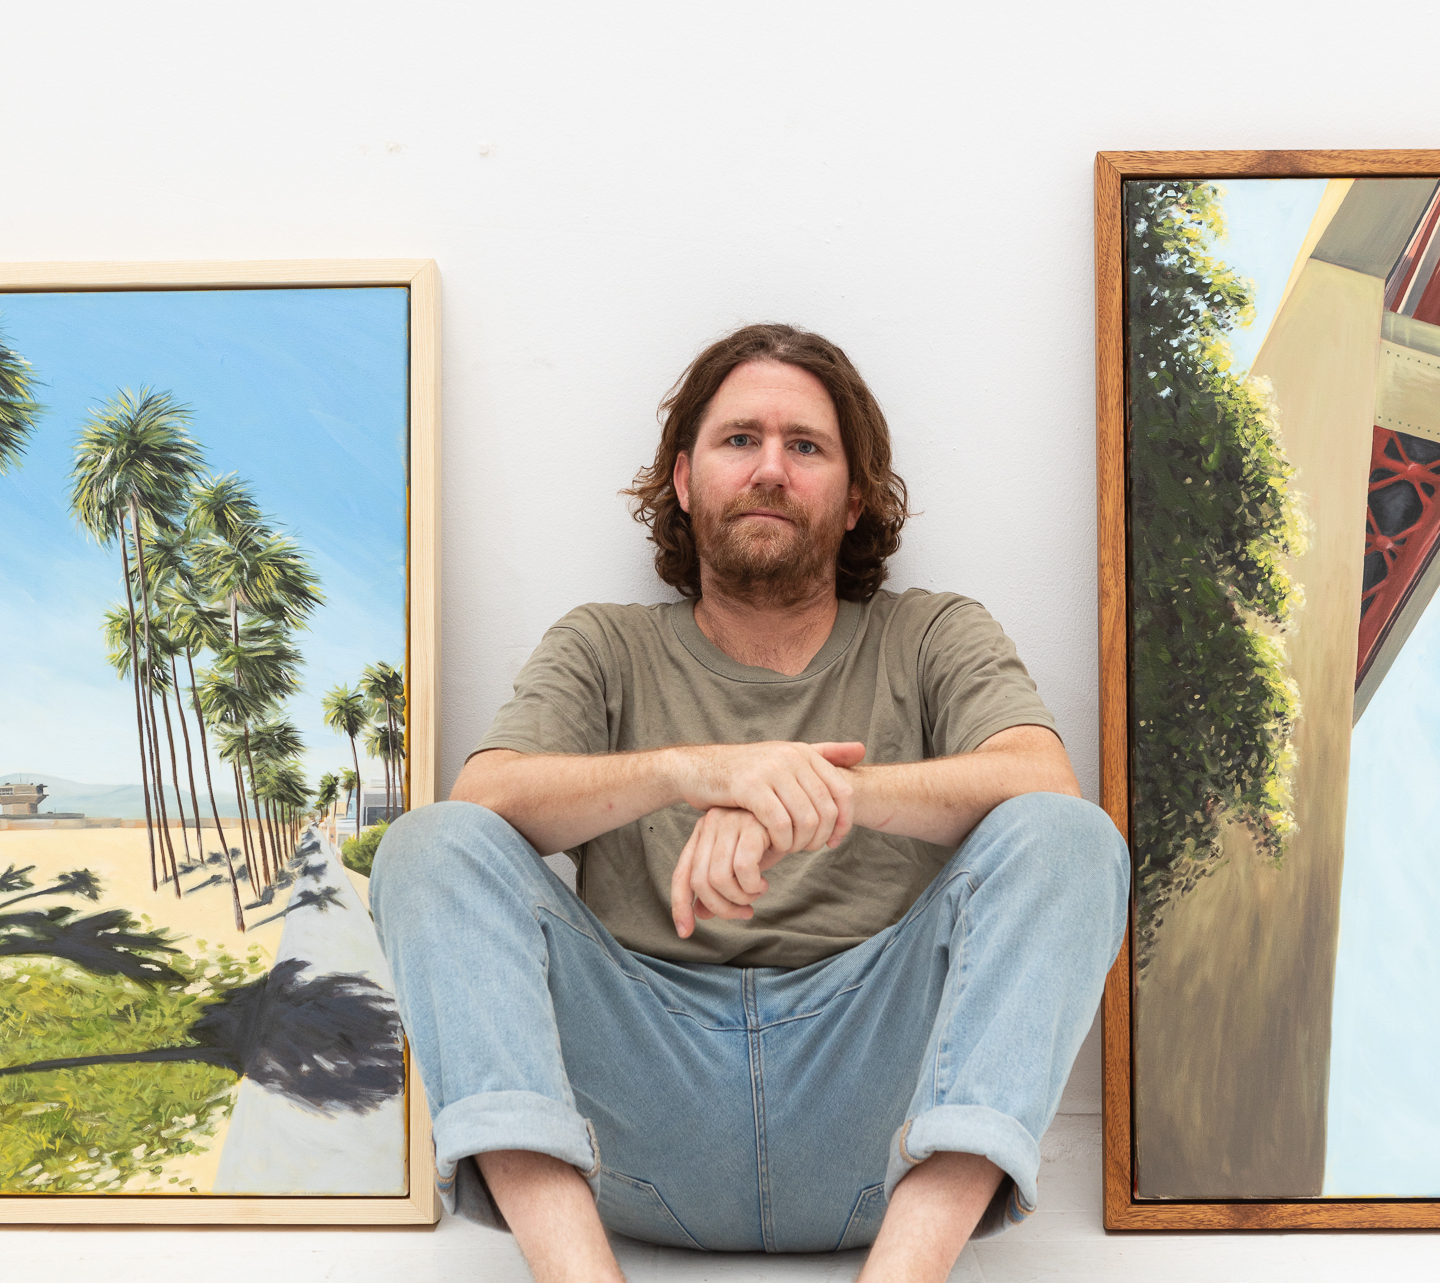
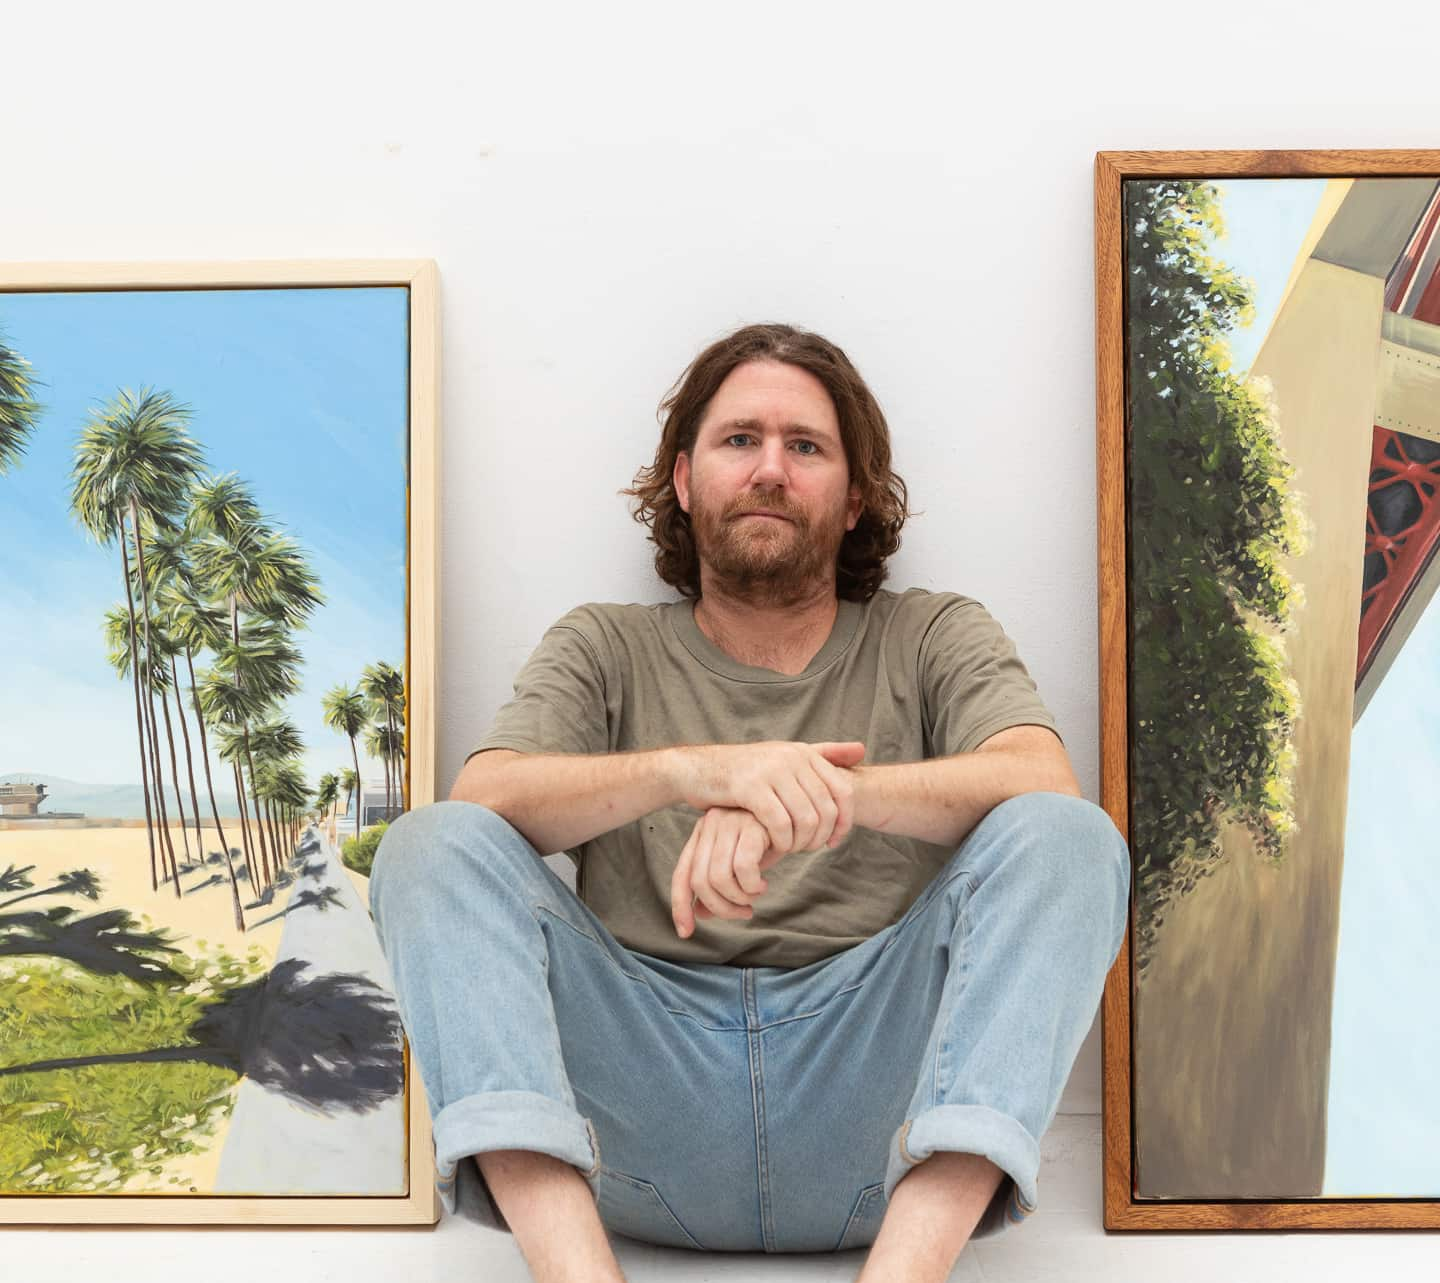
compressed images, css update

diff --git a/src/modules/ioLonely.js b/src/modules/ioLonely.js
@@ -3,11 +3,6 @@ const observerEaseInOptions = {
   threshold: 0.2,
   // rootMargin: "0px 0px -100px 0px",
 };
-const observerEaseInOptions2 = {
-  root: null,
-  threshold: 0.3,
-  rootMargin: "0px 0px 0px 0px",
-};
 
 const observerFade = new IntersectionObserver((entries) => {
   entries.forEach((entry) => {
@@ -28,4 +23,26 @@ const callObserverFade = () => {
   });
 };
 
-export { callObserverFade };
+// const observerPlayer = new IntersectionObserver(
+//   (entries) => {
+//     entries.forEach((entry) => {
+//       if (entry.isIntersecting) {
+//         entry.target.play();
+//       } else {
+//         entry.target.pause();
+//       }
+//     });
+//   },
+//   {
+//     threshold: 0.8,
+//   }
+// );
+
+// const callObserverPlayer = () => {
+//   let videos = document.querySelectorAll(".iovideo");
+//   videos.forEach((video) => {
+//     observerPlayer.observe(video);
+//   });
+// };
+
+export { callObserverFade, callObserverPlayer };

diff --git a/index.html b/index.html
@@ -105,7 +105,7 @@
                 ><div class="ig__icon"></div
               ></a>
             </div>
-            <div class="name">Ike Ferriera</div>
+            <div class="name">Ike Ferreira</div>
 
             <div class="bio">
               <p>

diff --git a/src/css/_main.scss b/src/css/_main.scss
@@ -350,6 +350,8 @@ p {
       align-items: center;
       overflow-y: unset;
       padding-bottom: 2vh;
+
+      transition-delay: 0s !important;
       // &.sam {
       //   background-image: url("");
       // }
